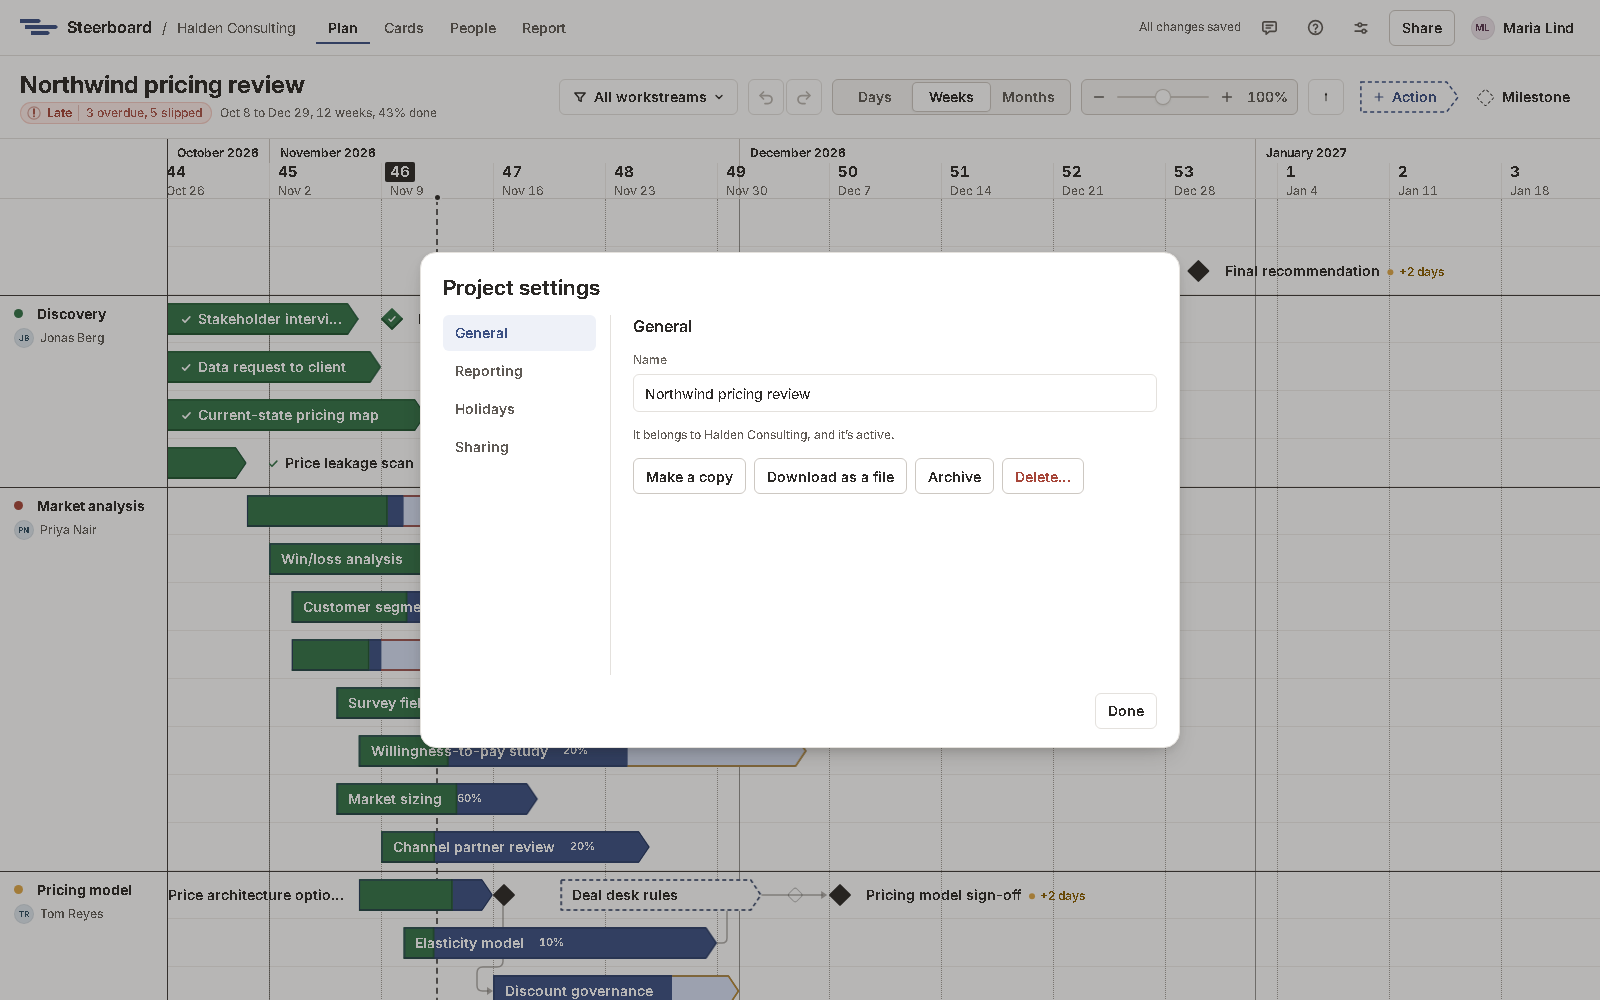
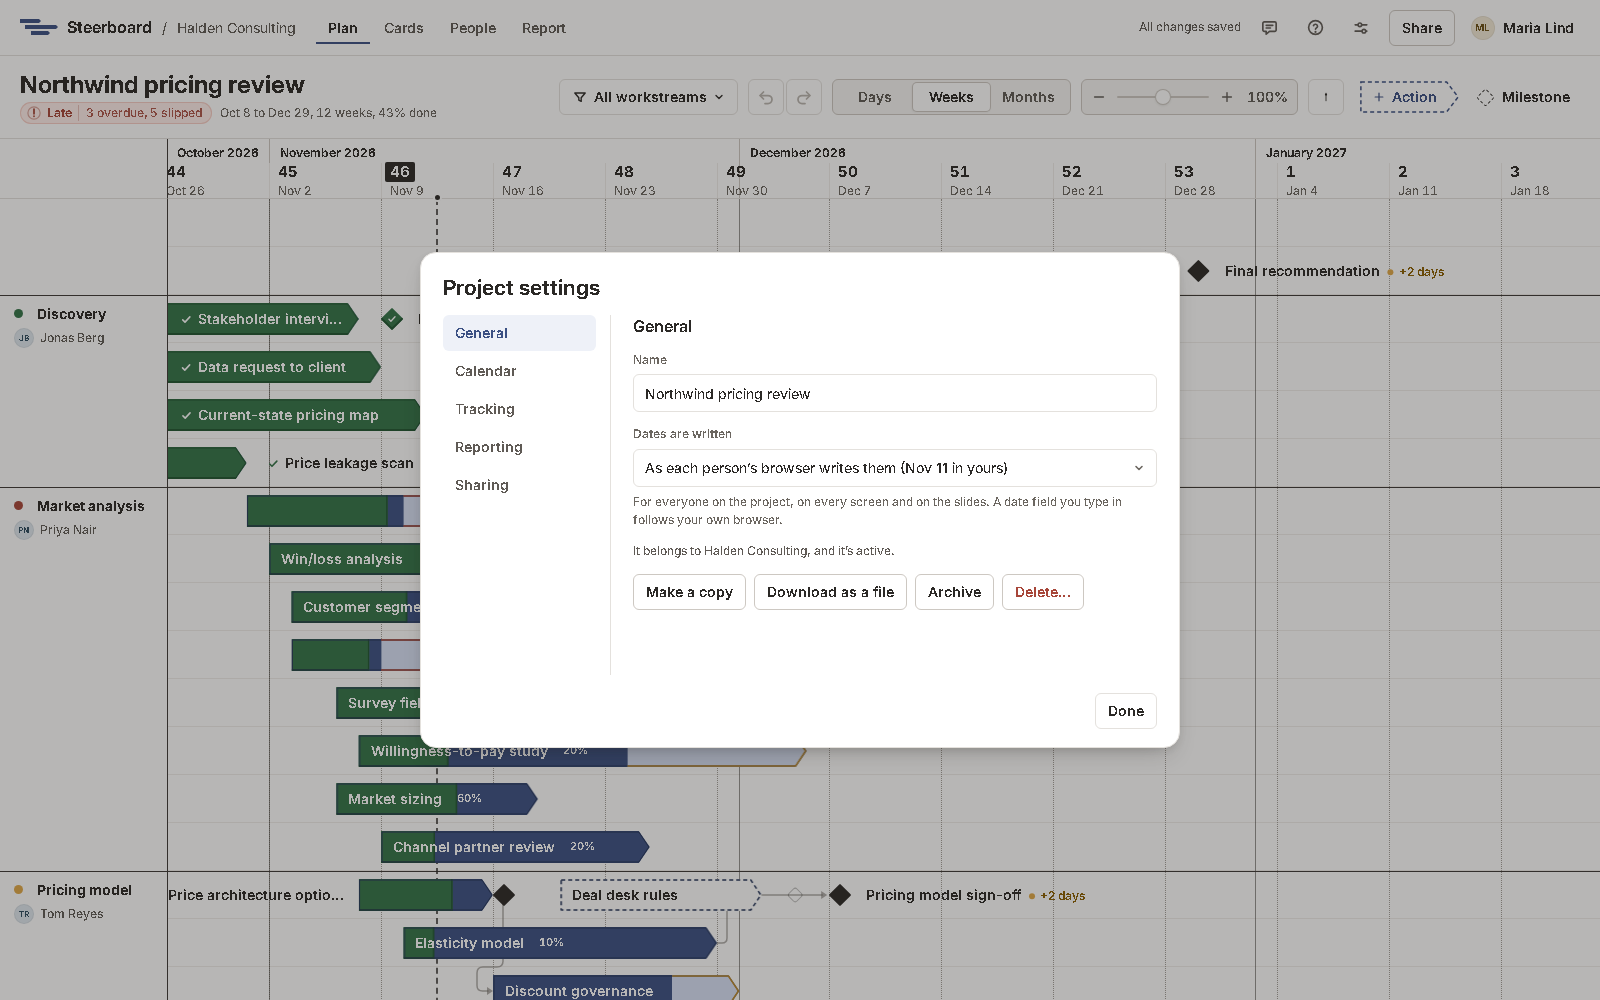
Project settings: the working week, how dates are written, and when a plan is at risk or late
- Working days (Calendar tab): the days of the week a project works, for
  four-day weeks or Sunday to Thursday. The board has a column a working
  day, lengths count them, the week starts after the days off, and taking a
  day out moves work off it as a holiday does (SCENARIOS.md, Y).
- Dates are written (General): one language and order for everyone on a
  project, on every screen and the slides, or each reader's browser's (T).
- Tracking: how many working days agreed work may slip, or be overdue,
  before its workstream and the plan count as at risk or late. A piece of
  work's own delay is never softened (V).

All are optional plan settings, kept valid by tidySettings; a plan that says
nothing is as before. model/context.ts sets the open plan's calendar and
rules, and the server works each project out in its own.

diff --git a/pages/plan/holidays.md b/pages/plan/holidays.md
@@ -1,23 +1,40 @@
-# Holidays
+# Working days and holidays
+
+## Working days
+
+A project works Monday to Friday unless you say otherwise. Open
+[Project settings](../project-settings.md), choose **Calendar**, and tick the
+days under **Working days**: Sunday to Thursday, say, or four days a week.
+
+- The plan has a column for each working day and none for the others; the week
+  starts on the first working day after the days off.
+- Lengths count working days, and nothing starts or ends on another day.
+- Taking a day out moves work off it, as a holiday does: an end back to the
+  working day before, a start or a milestone on to the next. It's one change:
+  **Undo** puts it back.
+- People's days a week and the time work takes ("3 days a week") are out of
+  the project's week.
+
+## Holidays
 
 Holidays are days nobody on the project works, such as a Christmas break or a
 public holiday. They're shaded grey down the board, with their name at the
 top, and no work is counted on them.
 
-## Add one
+### Add one
 
 - Right-click the time scale, or an empty part of the board, and choose
   **New holiday…**. It starts on the day you clicked and runs a week; change
   its name and dates there.
 - Or open [Project settings](../project-settings.md) (the sliders icon beside
-  **Share**), choose **Holidays** and **Add holiday**.
+  **Share**), choose **Calendar** and **Add holiday**.
 
-## Change or delete one
+### Change or delete one
 
-Right-click it on the time scale to edit or delete it, or use **Holidays** in
+Right-click it on the time scale to edit or delete it, or use **Calendar** in
 Project settings, where all of the project's holidays are listed.
 
-## What they do to the plan
+### What they do to the plan
 
 As on weekends, no work is counted on a holiday's days:
 

diff --git a/pages/project-settings.md b/pages/project-settings.md
@@ -8,7 +8,8 @@ change what belongs to the plan, and owners the rest.
 
 | Tab | What's there |
 |---|---|
-| **General** | The project's name, the group it belongs to, and what happens to it: **Make a copy**, **Download as a file**, and for its owners **Archive** and **Delete…**. |
+| **General** | The project's name; how its dates are written (**Dates are written**: in one language and order for everyone, on every screen and on the slides, or as each person's browser writes them); the group it belongs to; and what happens to it: **Make a copy**, **Download as a file**, and for its owners **Archive** and **Delete…**. |
+| **Calendar** | **Working days**: the days of the week the project works. And its holidays. See [Working days and holidays](plan/holidays.md). |
+| **Tracking** | When a workstream, a work package and the plan as a whole count as at risk or late. See [Agreed dates and delays](plan/agreed-dates.md#when-the-plan-is-at-risk-or-late). |
 | **Reporting** | When the last status report was issued, so the next one covers from then to today. **Issue report…** on the report moves it on; set it here to start the period on another day. |
-| **Holidays** | Days nobody on the project works. See [Holidays](plan/holidays.md). |
 | **Sharing** | Who can open the project and what they can do. See [Sharing a project](sharing/sharing.md). |

diff --git a/pages/plan/agreed-dates.md b/pages/plan/agreed-dates.md
@@ -40,6 +40,17 @@ milestone leaves a hollow diamond.
 A work package's status, and a workstream's dot, is the worst of the agreed work
 inside it.
 
+### When the plan is at risk or late
+
+A piece of work always shows its own delay. Its workstream, its work package
+and the plan as a whole are **At risk** when any agreed work has slipped, and
+**Late** when any is overdue. Under **Tracking** in
+[Project settings](../project-settings.md) a project can let a little pass:
+
+- **At risk when agreed work has slipped by** more than so many working days.
+- **Late when agreed work is overdue by** more than so many working days.
+  Until then, overdue work makes it at risk.
+
 ## Change agreed dates
 
 Agreed dates are never undone by moving the work. When the scope genuinely

diff --git a/pages/reference/glossary.md b/pages/reference/glossary.md
@@ -45,7 +45,7 @@ the next one ahead.
 **Work package.** A bracket over some work, rolling up its dates, progress
 and status. Put work in one from the right-click menu on the plan.
 
-**Working day.** Monday to Friday, less the project's holidays. Lengths are
+**Working day.** Monday to Friday (or the project's own working days), less its holidays. Lengths are
 counted in working days.
 
 **Workstream.** A section of the plan, lined off with its name at the left.

diff --git a/pages/plan/board.md b/pages/plan/board.md
@@ -31,7 +31,8 @@ column shows. Months are labelled in bold, then weeks by their number with
 the Monday's date.
 
 - The board shows working days only. Saturday and Sunday take no room, so
-  every week is five columns wide.
+  every week is five columns wide (or as many as the project's
+  [working days](holidays.md)).
 - Today is a dashed line down the board.
 - [Holidays](holidays.md) are grey bands, named at the top.
 

diff --git a/pages/people.md b/pages/people.md
@@ -24,7 +24,7 @@ the Groups page.
 | Change someone's role or days | Point at them and choose the pencil. |
 | Take someone off the team | Point at them, choose the pencil, then **Take off team…**. Their work stays, without an owner. |
 
-The days shown are working days, as on the plan: no weekends.
+The days shown are the project's working days, as on the plan: no weekends.
 
 ## Who's working on what
 
